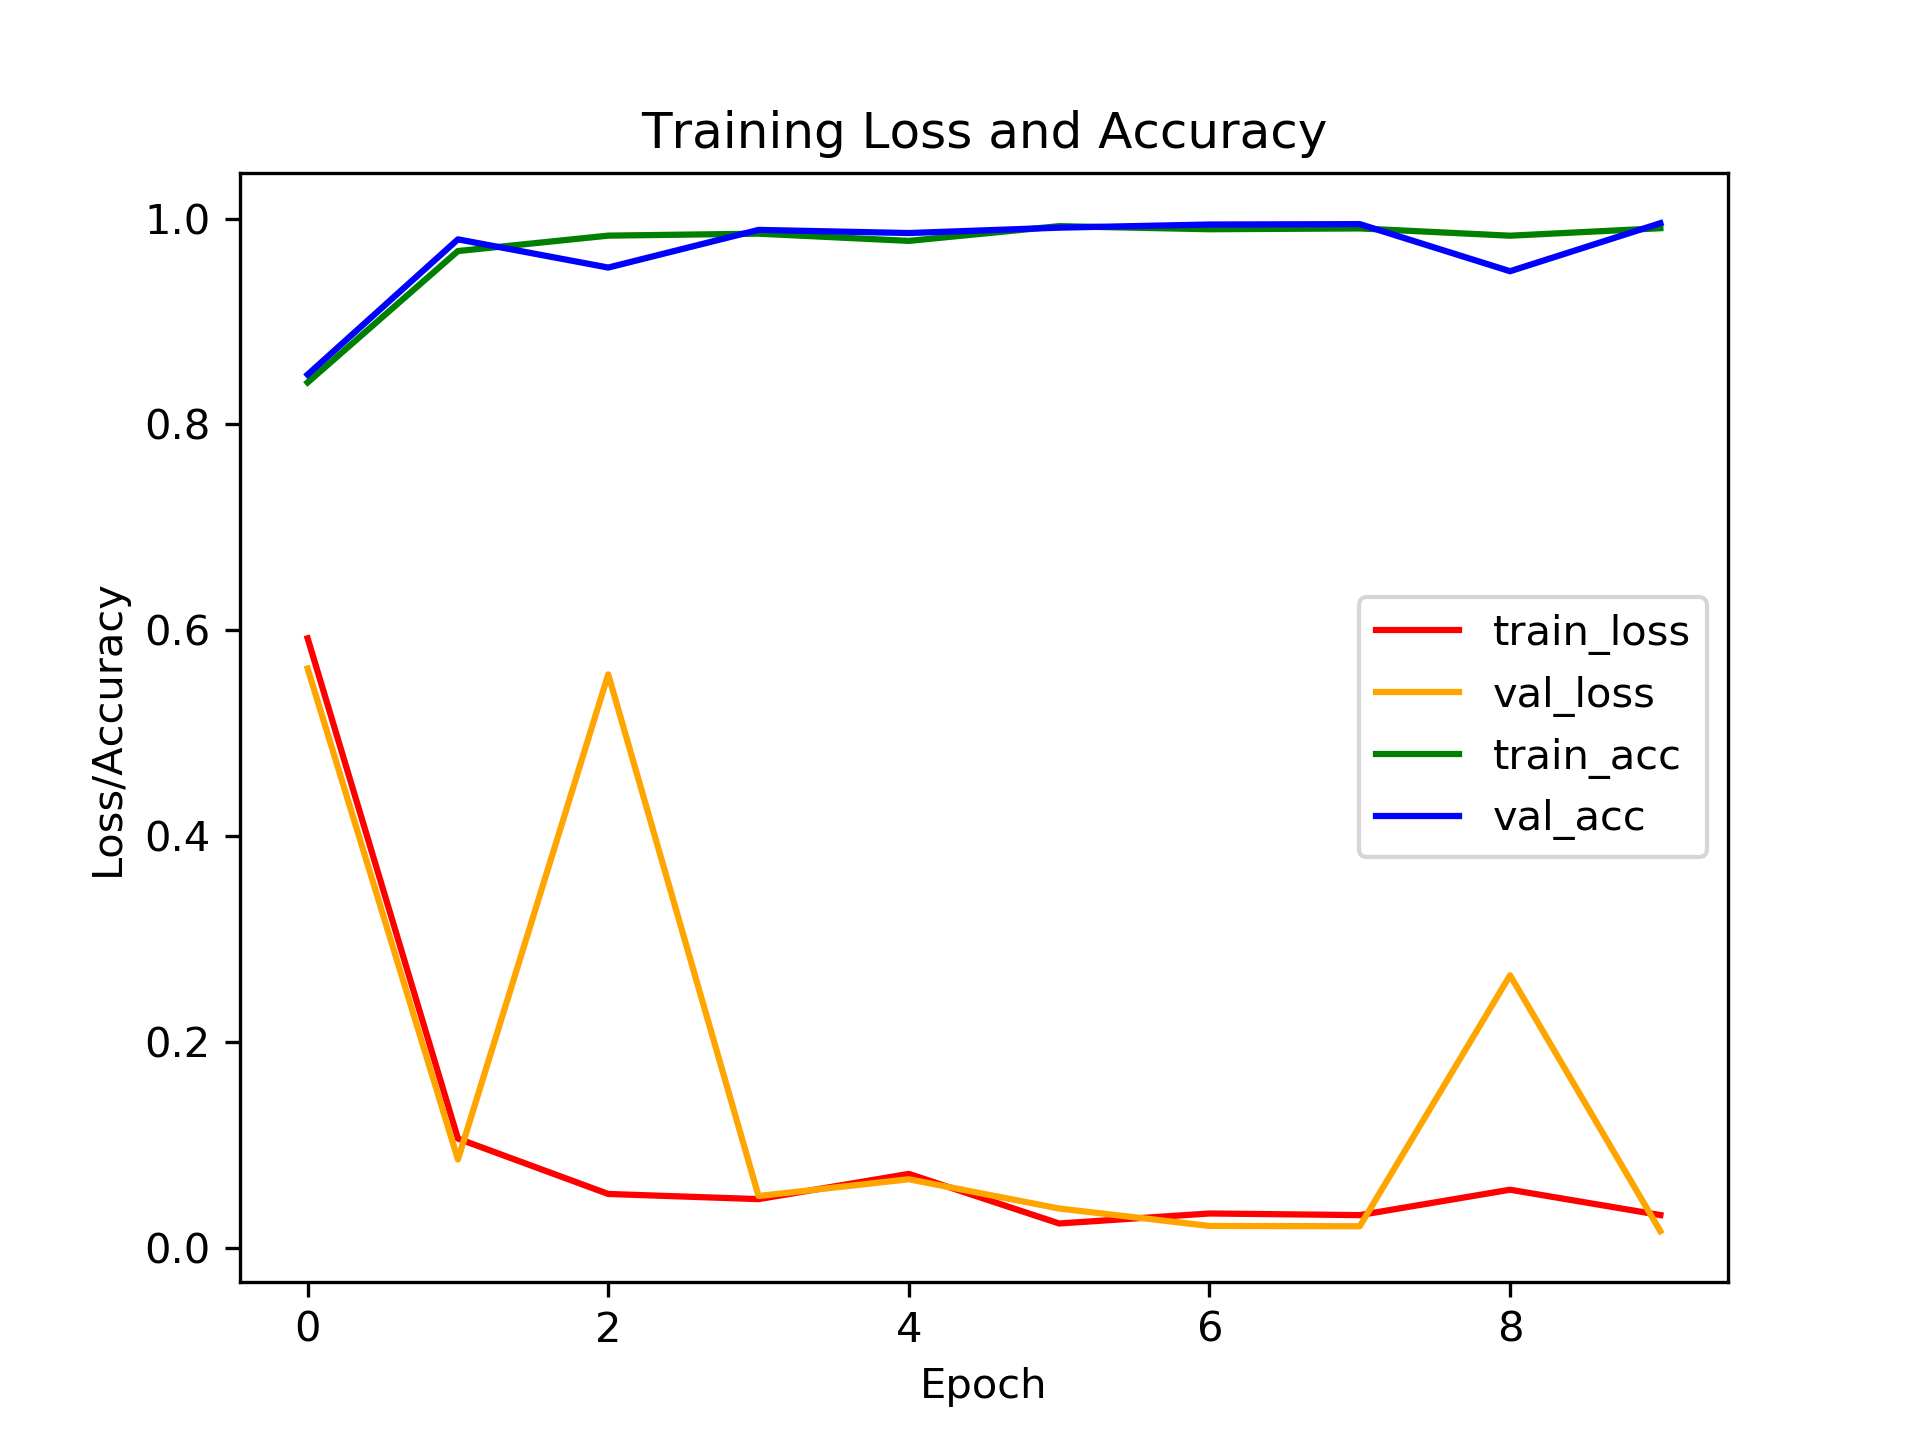
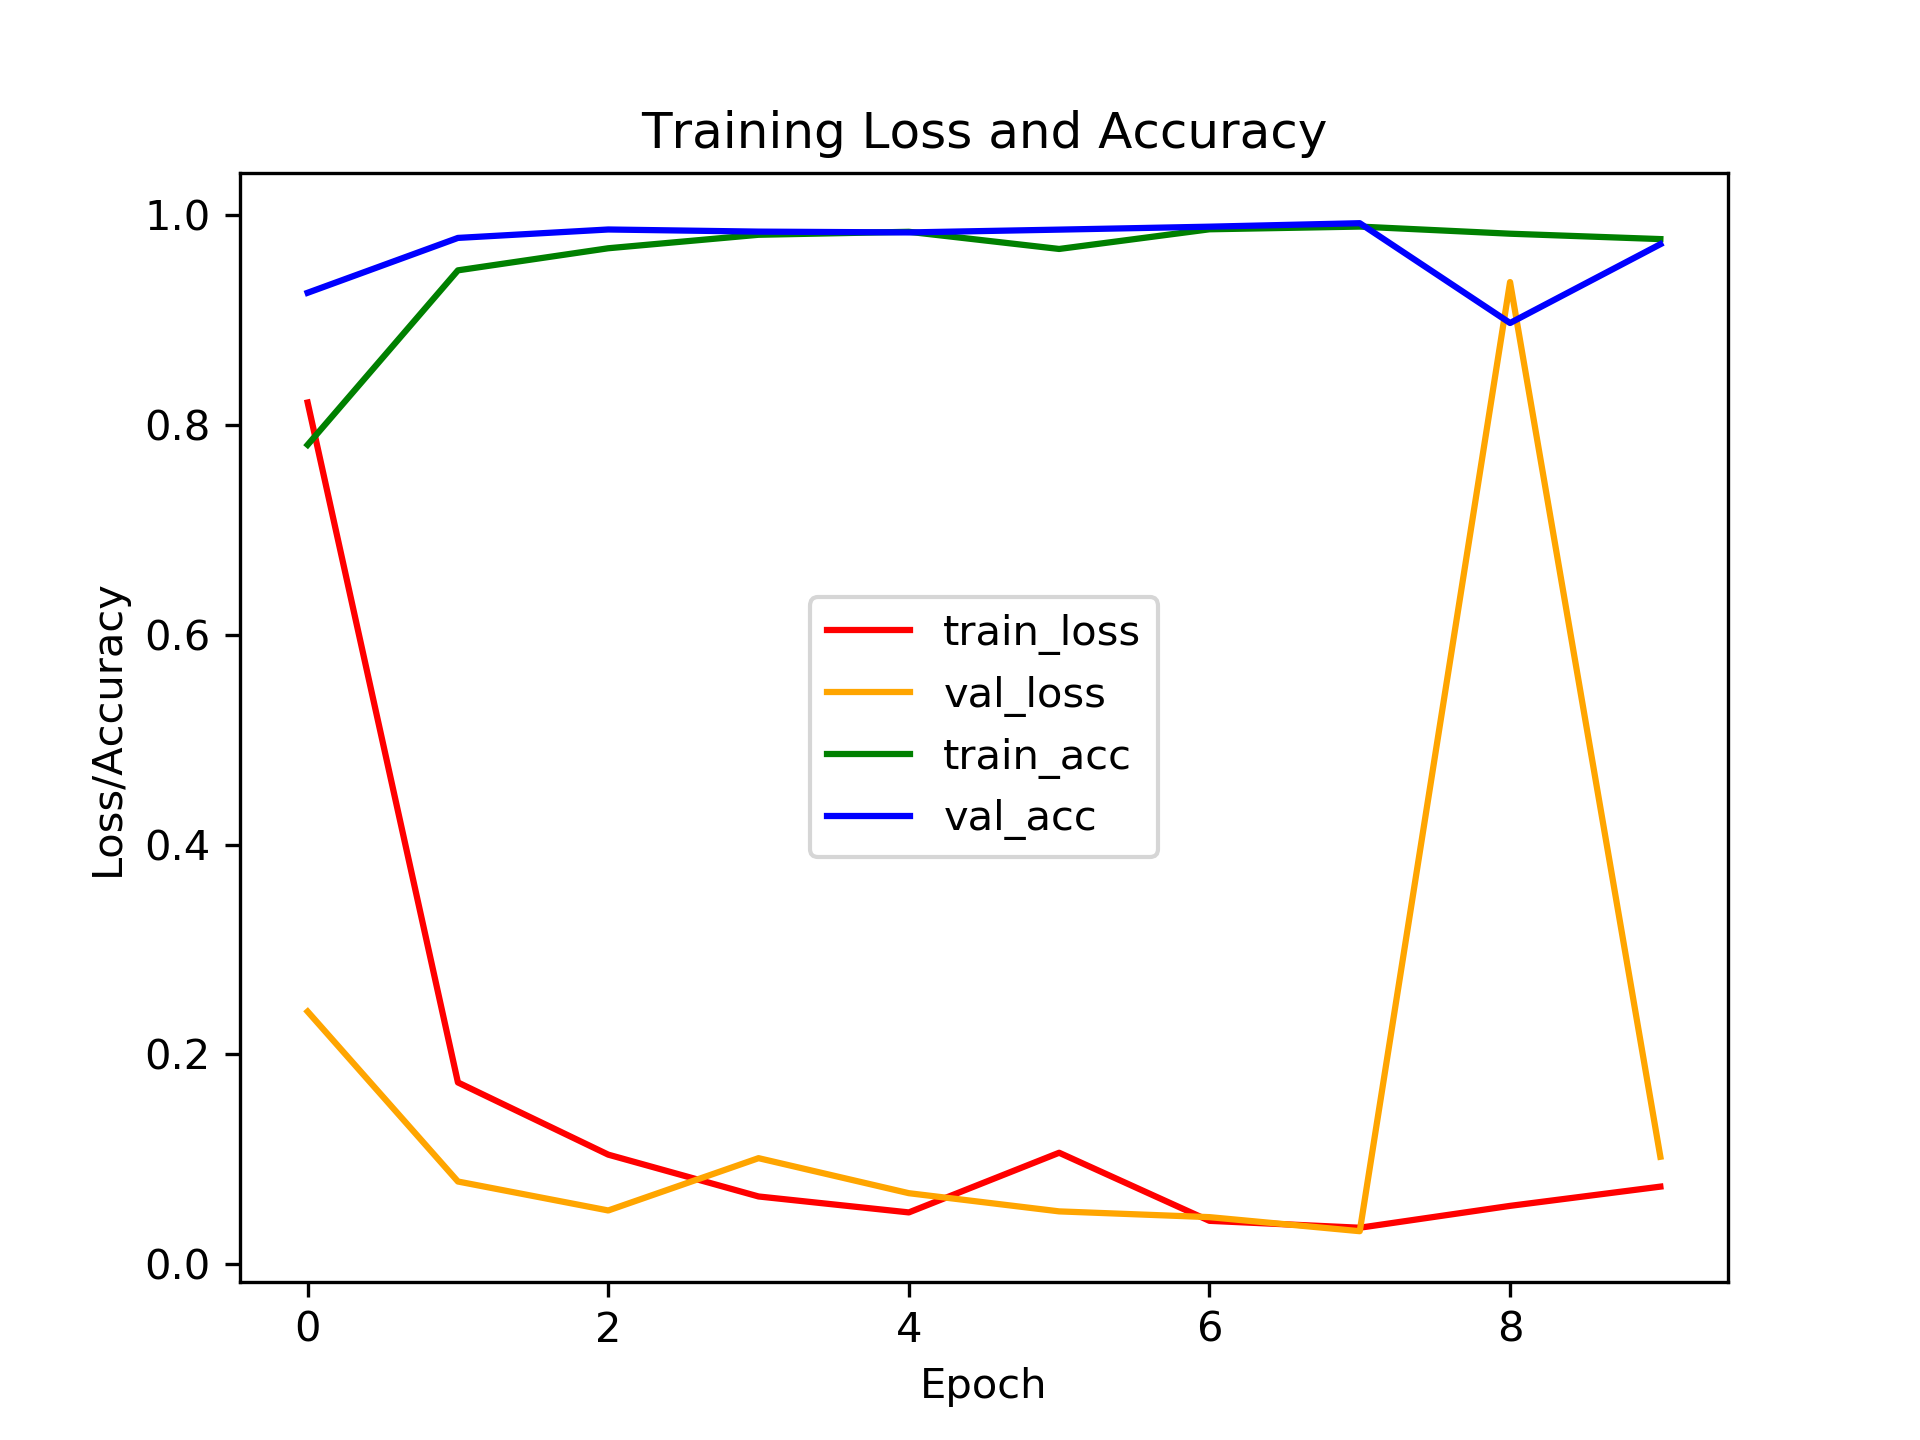
corrected import skimage

diff --git a/online_sample/load_images.py b/online_sample/load_images.py
@@ -7,7 +7,7 @@ import cv2
 import os
 
 from sklearn.model_selection import train_test_split
-# from skimage.color import rgb2grey
+from skimage.color import rgb2grey
 
 NUM_CLASSES = 43
 np.random.seed(42)
@@ -22,8 +22,8 @@ image_labels = []
 for i in range(NUM_CLASSES):
     image_path = data_path + '/' + format(i, '05d') + '/'
     for img in glob.glob(image_path + '*.ppm'):
-        image = cv2.imread(img, cv2.IMREAD_GRAYSCALE)
-        # image = rgb2grey(image)
+        image = cv2.imread(img)
+        image = rgb2grey(image)
         image = (image / 255.0) # rescale
         image = cv2.resize(image, (32, 32)) #resize
         images.append(image)
